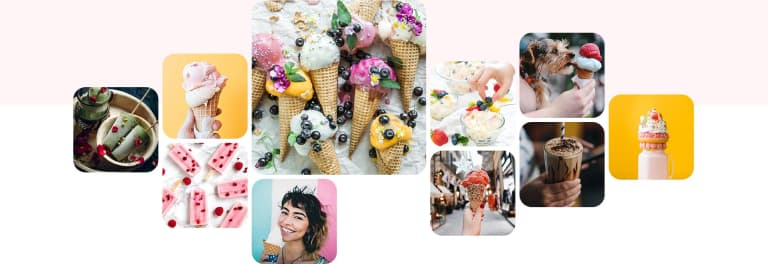
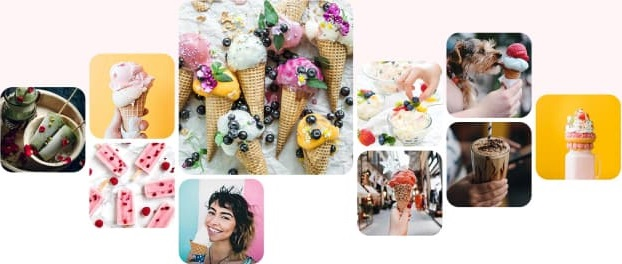
fix

diff --git a/src/sass/layout/_reviews.scss b/src/sass/layout/_reviews.scss
@@ -1,0 +1,155 @@
+.reviews__conteiner {
+  padding-top: 80px;
+  padding-bottom: 85px;
+  font-weight: 500;
+  letter-spacing: 0em;
+
+  @media screen and (min-width: 768px) and (max-width: (1280px - 0.02px)) {
+    padding-top: 120px;
+  }
+
+  @media screen and (min-width: 1280px) {
+    padding-top: 125px;
+  }
+}
+
+.reviews__photo {
+  margin: 0 auto;
+  margin-bottom: 30px;
+
+  @media screen and (min-width: 768px) and (max-width: (1280px - 0.02px)) {
+    margin-bottom: 20px;
+  }
+
+  @media screen and (min-width: 1280px) {
+    margin-bottom: 15px;
+  }
+}
+
+.reviews__thumb {
+  position: relative;
+  margin-left: auto;
+  margin-right: auto;
+  margin-bottom: 30px;
+  padding: 45px 50px 20px;
+  min-width: 280px;
+  text-align: center;
+  background-color: #FAFAFA;
+  z-index: -2;
+
+  @media screen and (min-width: 768px) and (max-width: (1280px - 0.02px)) {
+    margin-bottom: 25px;
+    padding-bottom: 25px;
+    width: 620px;
+  }
+
+  @media screen and (min-width: 1280px) {
+    margin-bottom: 15px;
+    padding: 45px 55px 30px;
+    width: 925px; 
+  }
+}
+
+.reviews__icon-quotes {
+  position: absolute;
+  top: 30px;
+  left: 60px;
+
+  @media screen and (min-width: 768px) and (max-width: (1280px - 0.02px)) {
+    left: 40px;
+  }
+
+  @media screen and (min-width: 1280px) {
+    left: 50px;
+  }
+  z-index: -1;
+}
+
+.reviews__content {
+  margin-left: auto;
+  margin-right: auto;
+  padding: 0px 10px;
+  min-width: 180px;
+  font-size: 12px;
+  line-height: 2.55;
+  min-height: 70px;
+  background-image: repeating-linear-gradient(
+    transparent, transparent 28px, #E1E1E1 29px, #E1E1E1 30px);
+
+  @media screen and (min-width: 768px) {
+    padding: 0px 30px;
+    letter-spacing: 0.04em;
+
+  }
+
+  @media screen and (min-width: 768px) and (max-width: (1280px - 0.02px)) {
+    width: 460px;
+    font-size: 14px;
+    line-height: 2.16;
+  }
+
+  @media screen and (min-width: 1280px) {
+    width: 750px;
+    font-size: 16px;
+    line-height: 1.875;
+  }
+
+}
+
+.reviews__points {
+  position: relative;
+  margin-left: auto;
+  margin-right: auto;
+  margin-bottom: 20px;
+  width: 4px;
+  height: 4px;
+  background-image: url('../images/point.svg');
+}
+
+.reviews__points::after, .reviews__points::before  {
+  content: "";  
+  position: absolute;
+  width: 4px;
+  height: 4px;
+  background-image: url('../images/point.svg');
+}
+
+.reviews__points::before  {
+  left: 10px;
+}
+
+.reviews__points::after {
+  right: 10px;
+}
+
+.reviews__name {
+  text-align: center;
+  margin-bottom: 30px;
+  font-size: 14px;
+  line-height: 1.86;
+
+  @media screen and (min-width: 768px) and (max-width: (1280px - 0.02px)) {
+    font-size: 16px;
+  }
+
+  @media screen and (min-width: 1280px) {
+    font-size: 20px;
+  }
+}
+
+.reviews__list{
+  display: flex;
+  justify-content: center;
+}
+
+.reviews__item:not(:last-child) {
+   margin-right: 18px;
+}
+
+.reviews__btn {
+  padding: 0;
+  cursor: pointer;
+  border: 0;
+  background-color: transparent;
+}
+

diff --git a/src/partials/reviews.html b/src/partials/reviews.html
@@ -1,0 +1,55 @@
+<section class="reviews">
+  <div class="reviews__container container">
+    <h2 class="visually-hidden">reviews</h2>
+    <img class="reviews__photo"
+      srcset="./images/testimonials/testimonials1@1x.png 1x, ./images/testimonials/testimonials1@2x.png 2x"
+      src="./images/testimonials/testimonials1@1x.png" width="85" height="85"
+      alt="фото клиента"
+    />        
+    <div class="reviews__thumb">
+      <svg class="reviews__icon-quotes" width="54" height="40">
+        <use 
+          href="./images/icons.svg#icon-quotes">
+        </use>
+      </svg>
+      <div class="reviews__content">
+        <p>Lorem ipsum dolor sit amet consectetur adipisicing elit. Inventore, excepturi quisquam. Ducimus nam ipsum dolor sit amet consectetur adipisicing elit. Inventore, excepturi quisquam. Ducimus nam 
+          magnam ut porro sit velit commodi? Aperiam delectus corporis nesciunt illum facilis excepturi quasi voluptas mollitia sit.</p>
+      </div>
+    </div>
+    <div class="reviews__points">
+      </div>
+      <p class="reviews__name">
+        Emily, Los Angeles
+      </p>
+
+      <ul class="reviews__list list">
+        <li class="reviews__item">
+          <button class="reviews__btn" type="button">
+            <svg width="12" height="12">
+              <use 
+                href="./images/icons.svg#icon-home"> 
+              </use>
+            </svg>
+          </button>
+        </li>
+        <li class="reviews__item">
+          <button class="reviews__btn" type="button">
+            <svg class="d" width="12" height="12" fill="#D9D9D9">
+              <use 
+                href="./images/icons.svg#icon-ellipse"> 
+              </use>
+            </svg>
+          </button>
+        <li class="reviews__item">
+          <button class="reviews__btn" type="button">
+            <svg width="12" height="12" fill="#D9D9D9">
+              <use 
+                href="./images/icons.svg#icon-ellipse"> 
+              </use>
+            </svg>
+          </button>
+        </li>
+      </ul>
+  </div>
+</section>

diff --git a/src/partials/gallery.html b/src/partials/gallery.html
@@ -1,3 +1,34 @@
-<section>
-    
+<section class="gallery">
+  <div class="gallery__container container"> 
+    <h2 class="visually-hidden">gallery</h2>
+    <picture>
+        <source
+          srcset="
+            ./images/mobile/collage-mob@1x.jpg 1x,
+            ./images/mobile/collage-mob@2x.jpg 2x"
+          media="(max-width: (768px - 0.02px))"
+          type="image/jpeg"
+        />
+        <source
+          srcset="
+            ./images/tablet/collage-tab@1x.jpg 1x,
+            ./images/tablet/collage-tab@2x.jpg 2x"
+          media="(min-width: 768px)"
+          type="image/jpeg"
+        />       
+        <source
+          srcset="
+            ./images/desktop/collage-desk@1x.jpg 1x,
+            ./images/desktop/collage-desk@2x.jpg 2x"
+          media="(min-width: 1280px)"
+          type="image/jpeg"
+        />
+        <img class="gallery__collage "
+          src="./images/mobile/collage-mob@1x.jpg"
+          alt="Коллаж с фотографиями людей с мороженым"
+          width="288"
+          height="122"
+        />
+      </picture>
+  </div>
 </section>

diff --git a/src/sass/layout/_products.scss b/src/sass/layout/_products.scss
@@ -109,25 +109,21 @@
     margin-bottom: 32px;
   }
 }
-.products_point::after {
+.products_point::after, .products_point::before {
   content: '';
   position: absolute;
-  left: 10px;
   display: flex;
   width: 6px;
   height: 6px;
   border-radius: 50%;
   background-color: var(--bg-secondary-color);
 }
+
+.products_point::after {
+  left: 10px;
+}
 .products_point::before {
-  content: '';
-  position: absolute;
   right: 10px;
-  display: flex;
-  width: 6px;
-  height: 6px;
-  border-radius: 50%;
-  background-color: var(--bg-secondary-color);
 }
 .products__description {
   margin-bottom: 30px;

diff --git a/src/index.html b/src/index.html
@@ -17,8 +17,8 @@
       <include src="./partials/header.html"></include>
     <main>
       <include src="./partials/hero.html"></include>
-      <include src="./partials/products.html"></include>
-      <include src="./partials/about.html"></include>
+      <!-- <include src="./partials/products.html"></include> -->
+      <!-- <include src="./partials/about.html"></include> -->
       <include src="./partials/gallery.html"></include>
       <include src="./partials/reviews.html"></include>
       <include src="./partials/contacts.html"></include>

diff --git a/src/sass/base/_common-class.scss b/src/sass/base/_common-class.scss
@@ -1,12 +1,12 @@
-html {
-  box-sizing: border-box;
-}
+// html {
+//   box-sizing: border-box;
+// }
 
-*,
-*::after,
-*::before {
-  box-sizing: inherit;
-}
+// *,
+// *::after,
+// *::before {
+//   box-sizing: inherit;
+// }
 
 body {
   min-width: 320px;
@@ -29,8 +29,8 @@ p {
 
 img {
   display: block;
-  max-width: 100%;
-  height: auto;
+  // max-width: 100%;
+  // height: auto;
 }
 
 /* Общие классы */

diff --git a/src/sass/main.scss b/src/sass/main.scss
@@ -18,8 +18,8 @@
 @import './components/social-links';
 @import './layout/header';
 @import './layout/hero';
-@import './layout/products';
-@import './layout/about';
+// @import './layout/products';
+// @import './layout/about';
 @import './layout/gallery';
 @import './layout/reviews';
 @import './layout/contacts';

diff --git a/src/sass/layout/_gallery.scss b/src/sass/layout/_gallery.scss
@@ -1,0 +1,3 @@
+.gallery__collage {
+  margin: 0 auto;
+}
